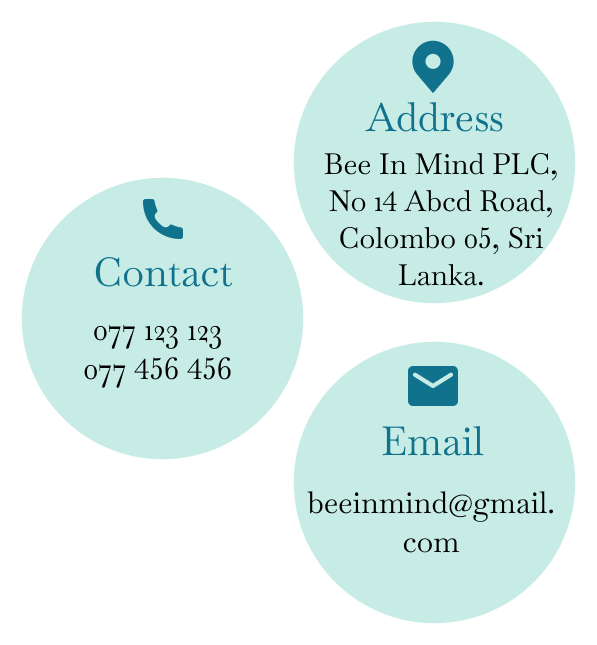
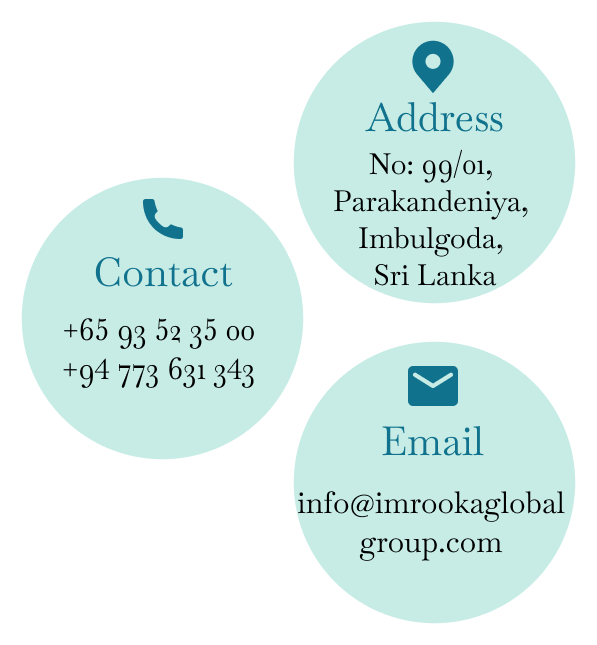
Add real contact details to the contact page

Changed region(s): [[0.5427, 0.2171, 0.9347, 0.4651], [0.4824, 0.7442, 0.9648, 0.8682], [0.0905, 0.4961, 0.4221, 0.6202]]

diff --git a/src/View/contacts.js b/src/View/contacts.js
@@ -1,5 +1,4 @@
 import * as React from 'react';
-import oldhomeImage from "../img/contact/slide.png";
 import homeImage from "../img/contact/contactSlide.jpg";
 import polygons from "../img/contact/polygons.png";
 import {Button, Grid} from "@mui/material";
@@ -17,7 +16,8 @@ const Contacts = () => {
                 <img style={{width: "100%", height: '300px', objectFit: 'cover', opacity: 0.5}}
                      src={homeImage} alt=""/>
             </div>
-            <h3 style={{color: Color.white, position: 'absolute', left: 0, right: 0, top: 100}}>Stay Connected With Us</h3>
+            <h3 style={{color: Color.white, position: 'absolute', left: 0, right: 0, top: 100}}>Stay Connected With
+                Us</h3>
             <h1 style={{
                 color: Color.black,
                 position: 'absolute',
@@ -105,7 +105,7 @@ const Contacts = () => {
             </Grid>
             <iframe
                 title={'location'}
-                src="https://www.google.com/maps/embed?pb=!1m18!1m12!1m3!1d15849.638463201407!2d79.908075!3d6.7197677!2m3!1f0!2f0!3f0!3m2!1i1024!2i768!4f13.1!3m3!1m2!1s0x3ae2460f9825efcd%3A0x4edf70b9ccff9fc3!2z4La04LeP4Lax4Lav4LeU4La7IOC2uOC3luC2veC3kuC2miDgtrvgt53gt4Tgtr0!5e0!3m2!1ssi!2slk!4v1658444764386!5m2!1ssi!2slk"
+                src="https://www.google.com/maps/embed?pb=!1m18!1m12!1m3!1d15839.086209797346!2d79.96036142036846!3d7.036114193228452!2m3!1f0!2f0!3f0!3m2!1i1024!2i768!4f13.1!3m3!1m2!1s0x3ae2f91b752aa559%3A0x488ff29b094d8807!2sParakandeniya!5e0!3m2!1ssi!2slk!4v1677424176920!5m2!1ssi!2slk"
                 width="600" height="400" style={{border: 0, width: '100%'}} allowFullScreen="" loading="lazy"
                 referrerPolicy="no-referrer-when-downgrade"/>
         </div>
